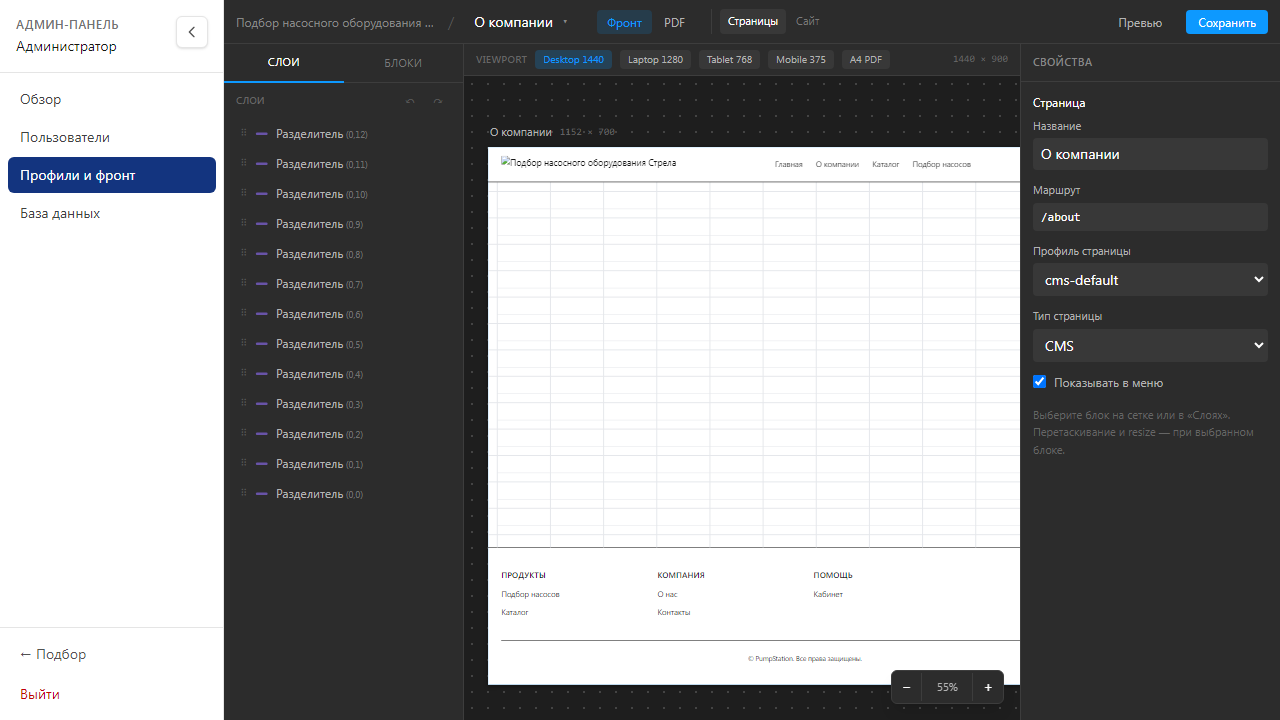
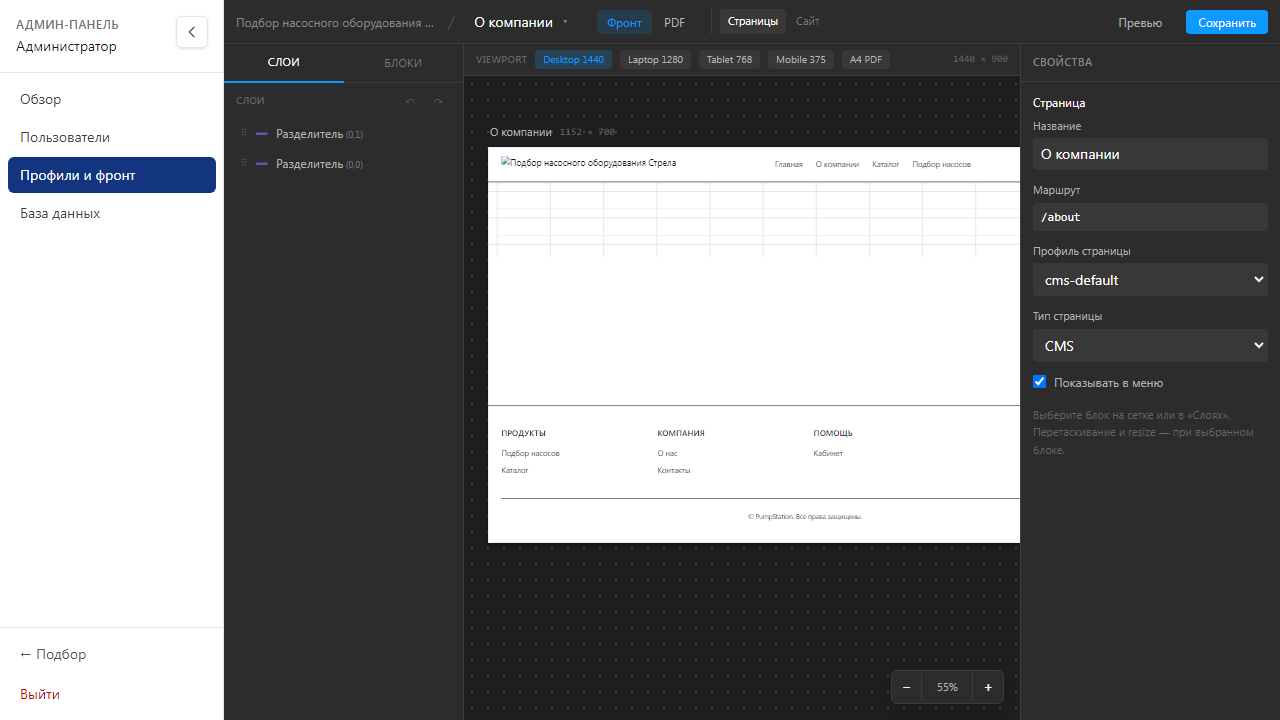
Prevent CMS e2e from polluting the default profile site config.
Clean accumulated test dividers on the about page, tear down added blocks after the save/reload test, and ignore tsbuildinfo artifacts.

diff --git a/e2e/studio.spec.ts b/e2e/studio.spec.ts
@@ -10,6 +10,7 @@ import {
   selectStudioPage,
   addBlockFromPalette,
   expectCanvasBlockCount,
+  removeLastCanvasBlockFromLayers,
   studioSidebar,
 } from "./helpers/studio";
 
@@ -149,5 +150,10 @@ test.describe("Studio D&D", () => {
     await waitStudioReady(page);
     await selectStudioPage(page, "О компании", "/about");
     await expectCanvasBlockCount(page, initialCount + 1);
+
+    await removeLastCanvasBlockFromLayers(page, "divider");
+    await page.getByRole("button", { name: "Сохранить" }).click();
+    await expect(page.getByText("Сохранено").first()).toBeVisible({ timeout: 10_000 });
+    await expectCanvasBlockCount(page, initialCount);
   });
 });

diff --git a/e2e/helpers/studio.ts b/e2e/helpers/studio.ts
@@ -201,6 +201,15 @@ export async function expectCanvasBlock(page: Page, blockType: string) {
   ).toBeVisible({ timeout: 10_000 });
 }
 
+export async function removeLastCanvasBlockFromLayers(page: Page, blockType: string) {
+  const sidebar = studioSidebar(page);
+  await sidebar.getByRole("button", { name: "Слои" }).click();
+  const rows = sidebar.locator(`[data-layer-block-type="${blockType}"]`);
+  const last = rows.last();
+  await last.hover();
+  await last.locator('button[title="Удалить"]').click();
+}
+
 export async function siteAboutHasDivider(page: Page) {
   return page.evaluate(async () => {
     const raw = localStorage.getItem("pumpstation-auth");
